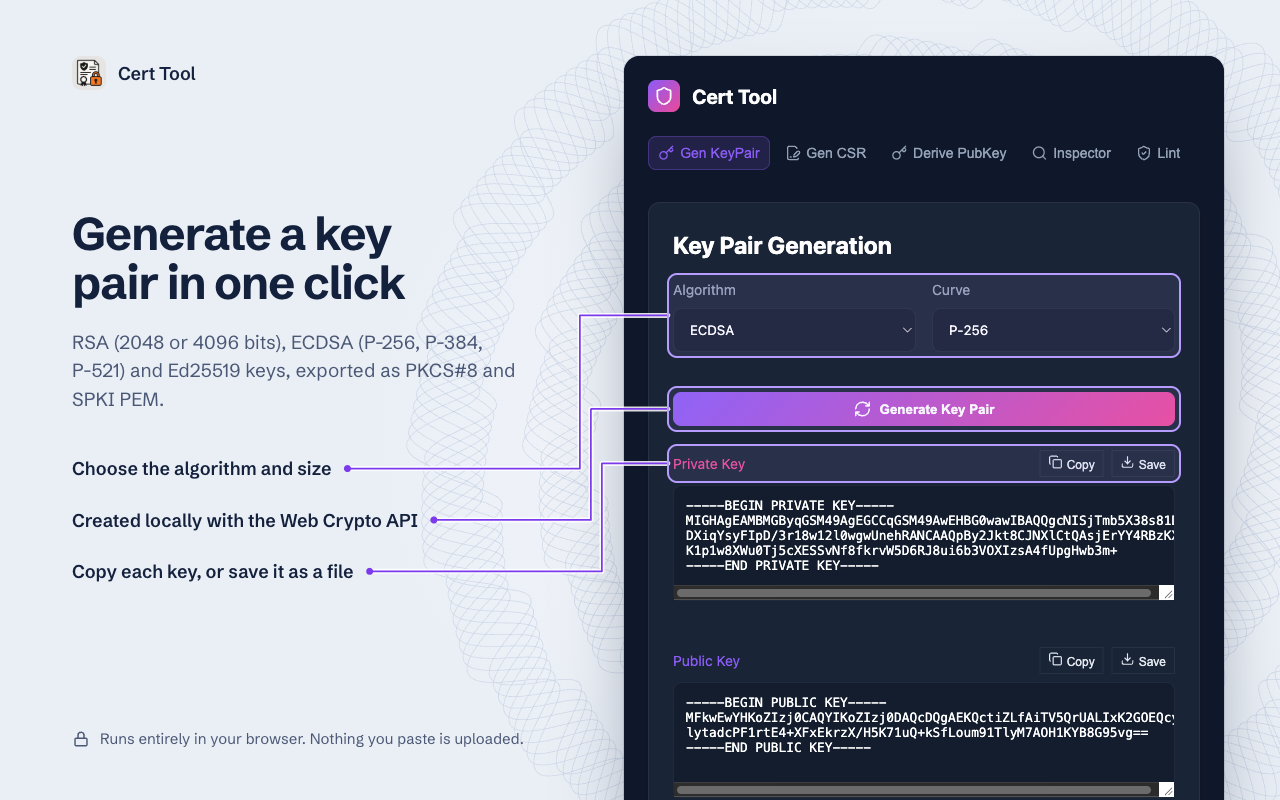
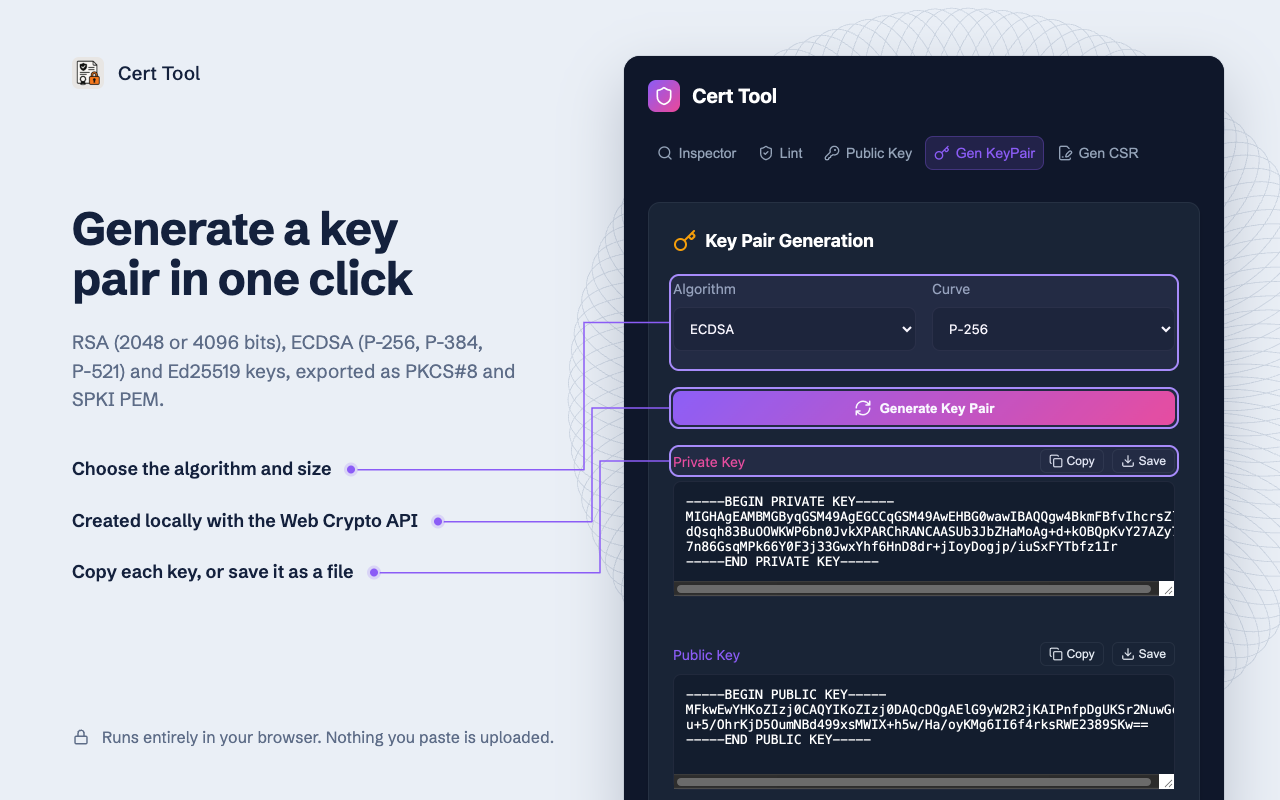
docs: redo the store screenshots that show the tab row
3-keypair shows the new tab order and the Key Pair Generation heading's
icon. 5-derive becomes 5-public-key and shows a Match verdict for a
private key and a fullchain.pem, with what was compared and both pins.
The README shows it under Public Key.

The other screenshots are cropped below the tab row, or show a web
page, so they stay.

Claude-Session: https://claude.ai/code/session_01C9oCtG91HxpP7e6zEsNLCs

diff --git a/README.md b/README.md
@@ -38,7 +38,7 @@ Check whether a server certificate is safe to deploy, similar to [zlint](https:/
 
 ### 4. Public Key
 Two tools, on the **Derive** and **Match** sub-tabs.
-![Public Key Derivation](screenshots/store/5-derive.png)
+![Public Key](screenshots/store/5-public-key.png)
 - **Derive**: Extract the public key from a private key (PKCS#8, PKCS#1 or SEC1), a certificate or a CSR. The input type and algorithm are detected automatically.
 - **Match**: Paste two PEMs to check that they are for the same key pair: a private key and its certificate or CSR, a CSR and the certificate issued from it, or two certificates that share a key. Paste a `fullchain.pem` as is; its first certificate is compared, and the verdict names it and says how many other blocks were left out. The keys are compared by their numbers, not their bytes, so an EC key written compressed still matches. The verdict shows what it rests on: what was compared, and each key's public key pin (`pin-sha256`), the one the Inspector shows, with a Copy button to check it elsewhere.
 
